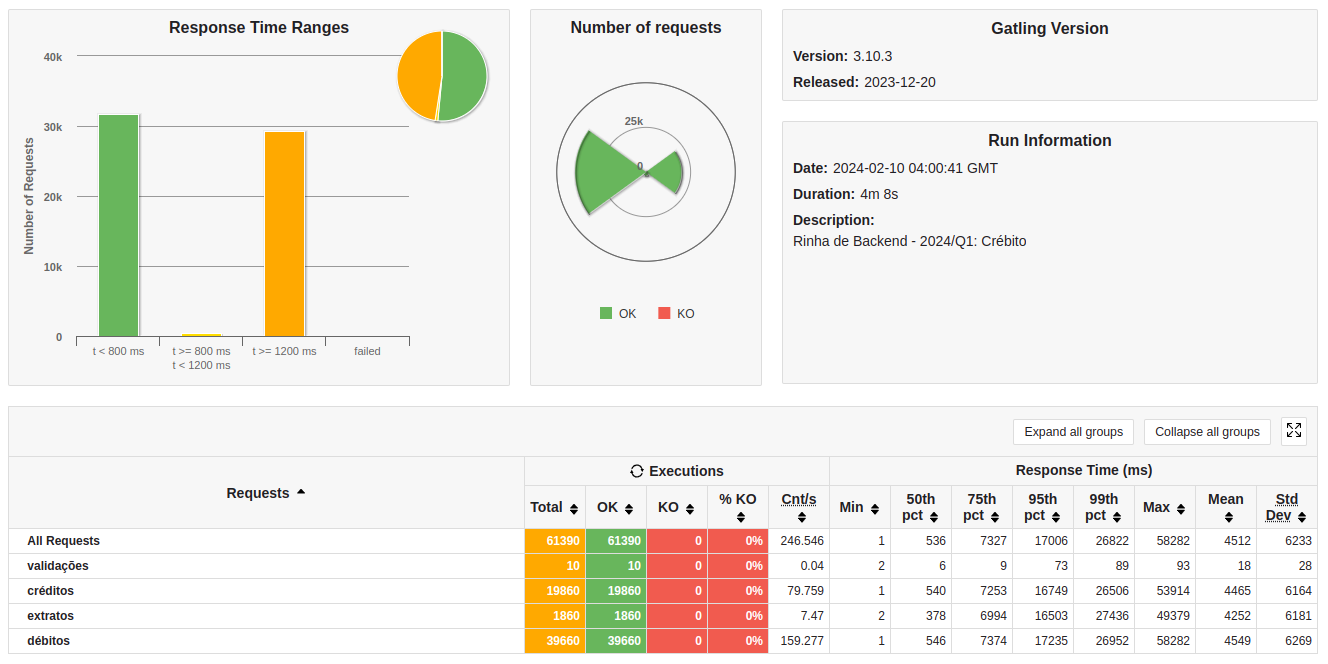
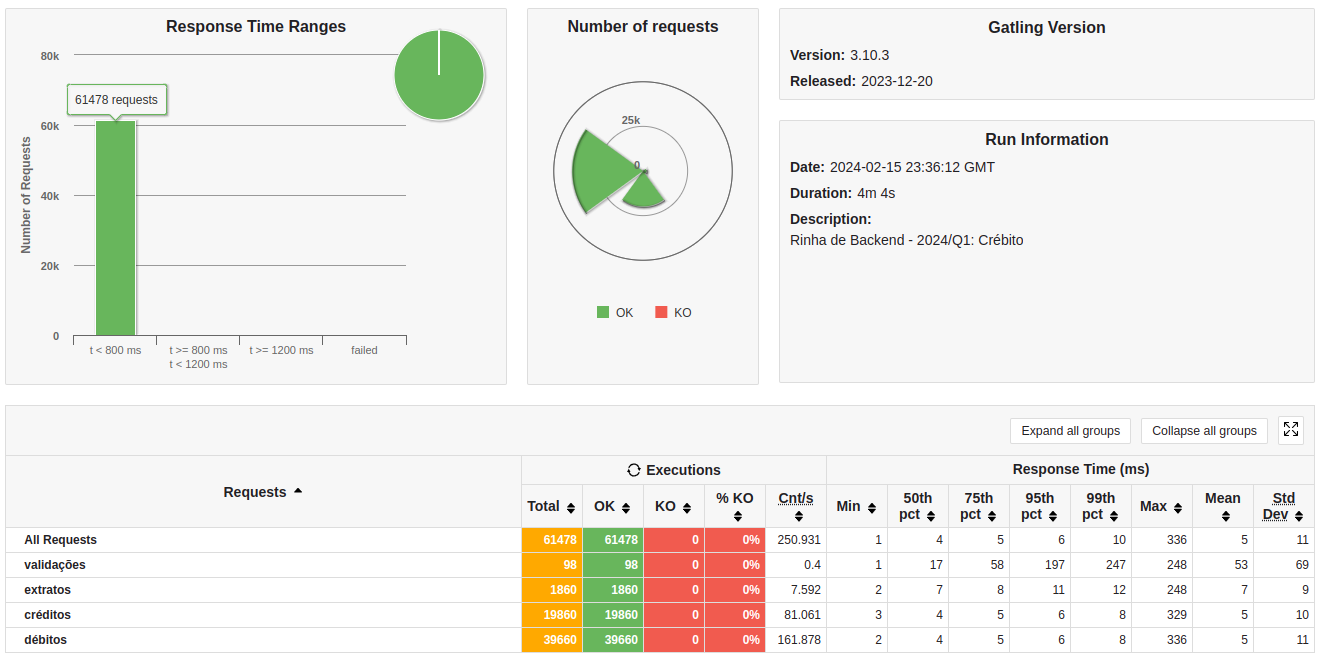
refactor: Alguns testes;

diff --git a/participantes/rdenadai_python/src/app.py b/participantes/rdenadai_python/src/app.py
@@ -1,26 +1,18 @@
-import asyncio
-import gc
 from typing import Optional
-
-import uvloop
-from pydantic import ValidationError
-from starlette.applications import Starlette
-from starlette.requests import Request
-from starlette.routing import Route
 
 from db import setup_database
 from orjson_response import OrjsonResponse as JSONResponse
+from pydantic import ValidationError
 from schemas import BalanceOutput, TransactionInput
+from starlette.applications import Starlette
+from starlette.requests import Request
+from starlette.routing import Route
 from stmt import (
     CHECK_IF_USER_EXISTS,
     READ_ACCOUNT_STATEMENT_SQL,
     READ_TRANSACTION_SQL,
     UPDATE_BALANCE_SQL,
 )
-
-gc.disable()
-asyncio.set_event_loop_policy(uvloop.EventLoopPolicy())
-
 
 DEFAULT_ERROR_MSG = "client not found"
 

diff --git a/participantes/rdenadai_python/src/db.py b/participantes/rdenadai_python/src/db.py
@@ -11,7 +11,7 @@ async def setup_database(app):
         database="rinha",
         host="db",
         port=5432,
-        max_size=10,
+        max_size=15,
         max_queries=150000,
     )
     yield
